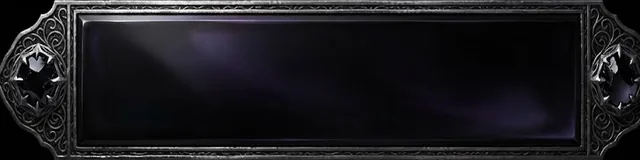
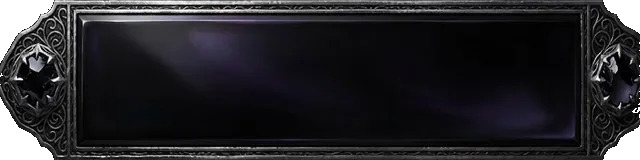
v568 : les 7 plaques de pseudo peintes, outil de découpe corrigé (fond transparent)
Claude-Session: https://claude.ai/code/session_01G3jW2e2fkjyWdrMoKXNbtm

diff --git a/sw.js b/sw.js
@@ -1,7 +1,7 @@
 // Service worker d'ABYSSAL : l'application et les données sont mises en cache
 // pour fonctionner hors ligne après une première visite. Incrémenter VERSION à
 // chaque publication pour que les joueurs reçoivent la mise à jour.
-const VERSION = 'abyssal-v567';
+const VERSION = 'abyssal-v568';
 const ART_CACHE = 'abyssal-media';  // images du jeu : gardées entre les versions
 const FONT_CACHE = 'abyssal-fonts';
 const CORE = [

diff --git a/js/config.js b/js/config.js
@@ -1,7 +1,7 @@
 // Configuration centrale du jeu : raretés, tables de tirage, boosters,
 // économie, variantes, progression. Toute la balance se règle ici.
 
-export const VERSION = 'v567'; // même numéro que sw.js : affiché dans Réglages > À propos
+export const VERSION = 'v568'; // même numéro que sw.js : affiché dans Réglages > À propos
 
 export const RARITIES = [
   { key: 'C',  name: 'Commune',     short: 'C',  color: '#A3ADBD' },

diff --git a/tools/plate-art.py b/tools/plate-art.py
@@ -1,6 +1,10 @@
 #!/usr/bin/env python3
 """v564 : intègre une plaque de pseudo reçue de Gemini (bannière horizontale sur fond noir pur).
-Usage : python3 tools/plate-art.py <clé pl-…> <image>
+Usage : python3 tools/plate-art.py <clé pl-…> <image> [--doux=T]
+--seuil=N (v568) : noir du fond (22 par défaut ; plus bas si des ornements très sombres touchent le bord).
+--fond-clair (v568) : source sur fond blanc ou gris clair (rendu transparent par remplissage depuis les bords).
+--doux=T (v568) : bord en fondu au lieu d'une découpe nette, pour les plaques entourées de lueur, de givre ou de brume :
+la zone reliée au bord et plus sombre que T devient transparente en proportion de sa luminosité (brume semi-transparente).
 La bannière est détectée (pixels nettement plus clairs que le fond noir), recadrée au plus juste, puis ramenée à
 640 × 160 (format 4:1 ; le jeu l'étire légèrement autour du pseudo) → assets/plates/<clé>.webp ; la source est
 gardée dans store/plates/<clé>-source.jpg. Le noir relié aux bords devient transparent (le centre sombre reste opaque).
@@ -10,24 +14,49 @@ from PIL import Image, ImageDraw
 import numpy as np
 
 ROOT = os.path.dirname(os.path.dirname(os.path.abspath(__file__)))
-if len(sys.argv) != 3 or not sys.argv[1].startswith('pl-'):
+args = [a for a in sys.argv[1:] if not a.startswith('--')]
+seuil = next((int(a[8:]) for a in sys.argv[1:] if a.startswith('--seuil=')), 22)
+soft = next((int(a[7:]) for a in sys.argv[1:] if a.startswith('--doux=')), 0)
+if len(args) != 2 or not args[0].startswith('pl-'):
     sys.exit(__doc__)
-key, src = sys.argv[1], sys.argv[2]
+key, src = args
 im = Image.open(src).convert('RGB')
+if '--fond-clair' in sys.argv:  # fond clair relié aux bords → noir pur, la suite fait comme d'habitude
+    im = im.copy(); Wi, Hi = im.size
+    for p in [(x, 0) for x in range(0, Wi, 16)] + [(x, Hi - 1) for x in range(0, Wi, 16)] + [(0, y) for y in range(0, Hi, 16)] + [(Wi - 1, y) for y in range(0, Hi, 16)]:
+        if sum(im.getpixel(p)) > 450: ImageDraw.floodfill(im, p, (1, 254, 1), thresh=40)
+    arr = np.asarray(im).copy(); light_bg = np.all(arr == (1, 254, 1), axis=2); arr[light_bg] = 0
+    im = Image.fromarray(arr); light_bg = Image.fromarray((light_bg * 255).astype(np.uint8), 'L')
+else:
+    light_bg = None
 a = np.asarray(im).astype(np.int32)
 lum = a.max(axis=2)
 rows = np.where((lum > 36).mean(axis=1) > 0.04)[0]
 cols = np.where((lum > 36).mean(axis=0) > 0.04)[0]
 if not len(rows) or not len(cols):
     sys.exit('Bannière introuvable : le fond doit être noir pur.')
-crop = im.crop((int(cols.min()), int(rows.min()), int(cols.max()) + 1, int(rows.max()) + 1)).resize((640, 160), Image.LANCZOS)
+box = (int(cols.min()), int(rows.min()), int(cols.max()) + 1, int(rows.max()) + 1)
+crop = im.crop(box).resize((640, 160), Image.LANCZOS)
 # seul le noir relié au bord de l'image devient transparent (le centre sombre de la plaque, sous le pseudo, reste opaque)
 c = np.asarray(crop)
-mask = Image.fromarray(np.where(c.max(axis=2) <= 22, 255, 0).astype(np.uint8), 'L')
+mask = Image.fromarray(np.where(c.max(axis=2) <= seuil, 255, 0).astype(np.uint8), 'L').copy()  # copie : une image faite depuis numpy peut être en lecture seule (Pillow 12)
 W, H = mask.size
 for x, y in [(x, 0) for x in range(W)] + [(x, H - 1) for x in range(W)] + [(0, y) for y in range(H)] + [(W - 1, y) for y in range(H)]:
     if mask.getpixel((x, y)) == 255: ImageDraw.floodfill(mask, (x, y), 128)
 alpha = np.where(np.asarray(mask) == 128, 0, 255).astype(np.uint8)
+if light_bg is not None:  # fond clair : la transparence vient du remplissage fait sur la source (les ornements noirs restent)
+    alpha = 255 - np.asarray(light_bg.crop(box).resize((640, 160), Image.BILINEAR))
+if soft:  # zone sombre reliée au bord : transparence selon la luminosité, couleur dé-mélangée du noir
+    lum = c.max(axis=2).astype(np.float32)
+    m2 = Image.fromarray(np.where(lum < soft, 255, 0).astype(np.uint8), 'L').copy()  # copie : une image faite depuis numpy peut être en lecture seule (Pillow 12)
+    for x, y in [(x, 0) for x in range(W)] + [(x, H - 1) for x in range(W)] + [(0, y) for y in range(H)] + [(W - 1, y) for y in range(H)]:
+        if m2.getpixel((x, y)) == 255: ImageDraw.floodfill(m2, (x, y), 128)
+    out_zone = np.asarray(m2) == 128
+    out_zone[int(H * .2):int(H * .8), int(W * .1):int(W * .9)] = False  # le centre de la plaque reste opaque
+    a = np.clip(lum / soft, 0, 1)
+    alpha = np.where(out_zone, (a * 255).astype(np.uint8), 255).astype(np.uint8)
+    cf = c.astype(np.float32); div = np.maximum(a, 1e-3)[..., None]
+    c = np.where(out_zone[..., None], np.clip(cf / div, 0, 255), cf).astype(np.uint8)
 out = Image.fromarray(np.dstack([c, alpha]), 'RGBA')
 os.makedirs(os.path.join(ROOT, 'assets/plates'), exist_ok=True)
 os.makedirs(os.path.join(ROOT, 'store/plates'), exist_ok=True)

diff --git a/CLAUDE.md b/CLAUDE.md
@@ -33,7 +33,7 @@ Ce texte reprend tout ce qu'il faut savoir du projet. Ce fichier est lu automati
 - SQL : `supabase/12-serveur-de-partie.sql` (table `parties`, fonctions `partie_*` réservées à `service_role`), puis **`supabase/13-verrouillage.sql` seulement quand À propos dit « Progression gardée par le serveur »** (plus d'écriture directe des sauvegardes, profils, fiches d'ami et Épreuves ; le joueur garde le choix de son pseudo).
 
 ## 2. Routine de livraison
-1. Version : **ligne 4** de `js/config.js` **et** de `sw.js`, toujours le même numéro (`sed -i "4s/vX/vY/" js/config.js sw.js`). Actuellement **v567**.
+1. Version : **ligne 4** de `js/config.js` **et** de `sw.js`, toujours le même numéro (`sed -i "4s/vX/vY/" js/config.js sw.js`). Actuellement **v568**.
 2. Tests : `node --test tests/*.test.mjs` (334 tests, dont `tests/syntaxe.test.mjs` qui passe `node --check` sur chaque fichier de `js/` : les écrans ne sont importés par aucun autre test), `node tools/validate.mjs`. Si le combat ou l'équilibre change : `node tools/fuzz.mjs 300` (étage moyen ≈ 12 à 14 en normal).
 3. Vérification dans le navigateur avec Playwright (`/opt/node-tools/node_modules/playwright/index.mjs`, Chromium déjà installé), avec un serveur local `python3 -m http.server 8092` lancé dans le dossier. Tailles iPhone SE et iPhone 13. **L'écran d'ouverture attend un toucher** (« Touche l'écran pour entrer ») : dans les scripts, cliquer au milieu de l'écran (dans la fenêtre 390×664) avant tout le reste.
 4. Commit, push, réponse en français.
@@ -114,6 +114,7 @@ Ce texte reprend tout ce qu'il faut savoir du projet. Ce fichier est lu automati
 - Amis par pseudo : **fait en v500**. Versus Booster (mini-jeu à mise contre d'autres joueurs) : **fait en v513**. Duels des Sceaux en ligne : **fait en v519** ; Pacte en ligne : **fait en v523** ; Enchères en ligne et Cryptes entre amis : **faits en v525**. Ensuite : versus 1 contre 1 (Sceaux et combats façon Descente). Le propriétaire veut que le perdant **perde vraiment** une carte. Cadre conseillé si on le fait : mode « Duel à enjeu » séparé et consenti (duel normal sans perte à côté), mise de même rareté des deux côtés, favoris jamais mis en jeu, adversaires de niveau proche, accès après quelques jours et duels normaux (contre les comptes jetables et le trafic de cartes), uniquement entre joueurs présents ou amis ayant accepté (jamais sur une partie jouée par l'IA à la place d'un absent).
 
 ## 5. Décisions déjà prises
+- v568 : **les 7 plaques de pseudo peintes** (sources `store/plates/pl-<clé>-source.jpg` → `assets/plates/pl-<clé>.webp`, 640 × 160). **Bug corrigé dans `tools/plate-art.py`** : sous Pillow 12, une image créée depuis numpy peut être en lecture seule et le remplissage n'agissait pas : le fond noir restait opaque (la plaque d'obsidienne de la v567 avait des coins noirs) ; `.copy()` ajouté. Nouvelles options : `--seuil=N` (noir du fond, 22 par défaut ; **7 utilisé pour les 6 plaques sur fond noir**, sinon les ornements très sombres du bord étaient découpés), `--fond-clair` (source sur fond blanc : braise), `--doux=T` (essayé, rendu moins bon : non utilisé). Vérifié sur une planche et sur le Profil dans Chromium ; rien testé sur un vrai iPhone.
 - v567 : **plaque d'obsidienne** peinte par Gemini (source `store/plates/pl-obsidienne-source.jpg`, `python3 tools/plate-art.py pl-obsidienne …` → `assets/plates/pl-obsidienne.webp` 640 × 160) : validée par le propriétaire, qui demande les 6 autres prompts (§164-169 de `store/boutique-cosmetiques.md`, donnés le 21 octobre 2026). Vérifié sur le Profil dans Chromium ; rien testé sur un vrai iPhone.
 - v566 (retour du propriétaire : « quelques latences dans les combats ; aucun QTE hormis la barre ne fonctionne bien : toucher à différents endroits il ne se passe rien, marteler n'atteint même pas la moitié, la direction mal faite ») : **gestes de défense refaits** dans un module à part, `js/screens/defense-qte.js` (`holdQTE`, `swipeQTE`, `ringsQTE`, `mashQTE`, `targetQTE`, `scoreOf` ; réglages par rang dans `TIERS` normal / élite / gardien). Causes trouvées : chaque geste écoutait les touchers sur des éléments posés dans l'écran de combat, et la règle `.dv.qte-on *` (`touch-action` sur **tous** les éléments du combat) ralentissait tout ; les touchers du martèlement et des points faibles se perdaient (défilement, double-toucher de Safari). Désormais **un calque plein écran** par geste (`.qx`, `qx-k-<geste>`, `touch-action: none`, `touchstart`/`touchmove` bloqués, `setPointerCapture`), avec titre et consigne en haut (`.qx-head`, placé sous le titre et les pastilles pendant un Assaut de gardien), barre de temps, tampon du résultat. **Maintenir** : jauge autour d'un bouclier, on appuie n'importe où, on relâche dans l'or (trait blanc = parade). **Glisser** : 4 sens, grande flèche et main animée, puis « Glisse ! » ; on glisse n'importe où (26 px suffisent, cône de tolérance) ; vite = parade, ensuite esquive, mauvais sens = touché ; un glissé avant le signal est ignoré. **Cercles** : on touche n'importe où quand le cercle d'or rejoint le cœur blanc (un toucher bien trop tôt = raté). **Marteler** : compteur « x / N » qui baisse lentement si on s'arrête (normal 8 touchers en 2,6 s, élite 10, gardien 12 en 2,5 s ; plein avant 65 % du temps = parade). **Points faibles** : des yeux s'allument un à un à des endroits au hasard (rayon de touche 58 px), toucher à côté ne coûte rien. Bulles d'aide des gestes réécrites, textes dans les 5 langues. Le résultat envoyé au moteur reste `'parry' | 'dodge' | 'none'` (serveur de partie inchangé). Testé : 334 tests ; robots Chromium (toucher émulé) sur chaque geste (parade, esquive, raté selon la vitesse) ; combats réels iPhone 13 et SE : Assaut du Dévoreur de bout en bout, Rafale, Étreinte, Embuscade. Rien testé sur un vrai iPhone : réglages à ajuster au doigt dans `TIERS`.
 - v565 (13 images Gemini des prompts de remplacement) : **cadres** `cx-veilleuses` (Saison I p3), `cx-reliquaire-ames` (p10, à la place des citrouilles), `cx-loups-neige` refait en loup de givre (`-5.webp`, Saison III p18) ; **dos** `dos-passeur` (I p8, à la place de la finition Spectrale), `dos-glas` (I p14 ; source recadrée sur la carte, `dos-glas-carte.jpg`), `dos-veillee` (II p15, à la place des présents), `dos-aurore` (III p20, à la place de la finition Aurore) ; **dos vivants** (nouvelle famille, `LIVE_BACKS`) aux paliers 30 : `dos-vif-veillee` (II), `dos-vif-hiver` (III), `dos-vif-coeur` (IV) : WebP animés faits par **`python3 tools/back-anim.py <clé> bougies|aurore|coeur`** (18 images, boucle 1,6 s ; image fixe gardée dans `store/backs/<clé>-fixe.webp`) : le dos s'anime partout sans code (fond CSS) ; **sachets de booster** (nouvelle famille, `SACHETS`, `s.sachets`, `s.sachet`, `g.setSachet`, op `sync`, Personnaliser → « Sachets de booster ») : `sachet-ames` (I p20), `sachet-veillee` (II p8), `sachet-fondateur` (Pack du Fondateur, à la place du cadre ; deux petites runes effacées, `sachet-fondateur-retouche.jpg`) faits par **`python3 tools/sachet-art.py <clé> <image>`** (fond relié au bord rendu transparent, 464 × 800) ; un sachet remplace le visuel des boosters standard, Alliances et premium (`packHTML`, `getPackSkin`/`setPackSkin` dans `js/ui/vitrine.js`, nom écrit dans la plaque sombre à `SKIN_TOP` %), jamais ceux des factions ; **au Pari des Boosters, chacun voit le sachet de l'autre** (`profiles.sachet` dans `15-vitrine.sql`, publié par le serveur de partie, renvoyé par `versus_list` : **`supabase/08-versus.sql` à recoller**). Testé : 334 tests, SQL 08, 09, 12, 15 sur PostgreSQL 16 local (sachet piégé effacé), Chromium (boutique avec sachet, Personnaliser, piste du Codex). Rien testé sur un vrai iPhone.
